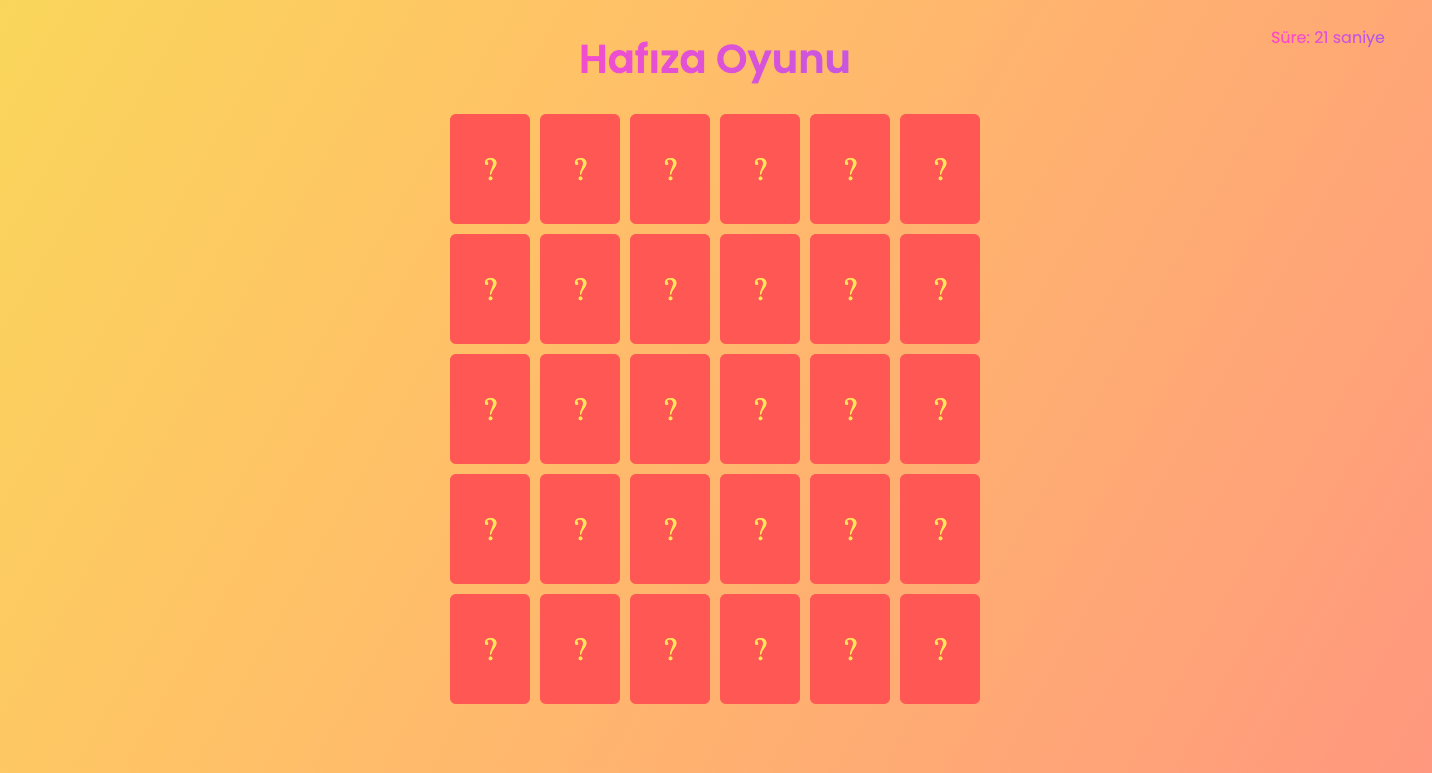
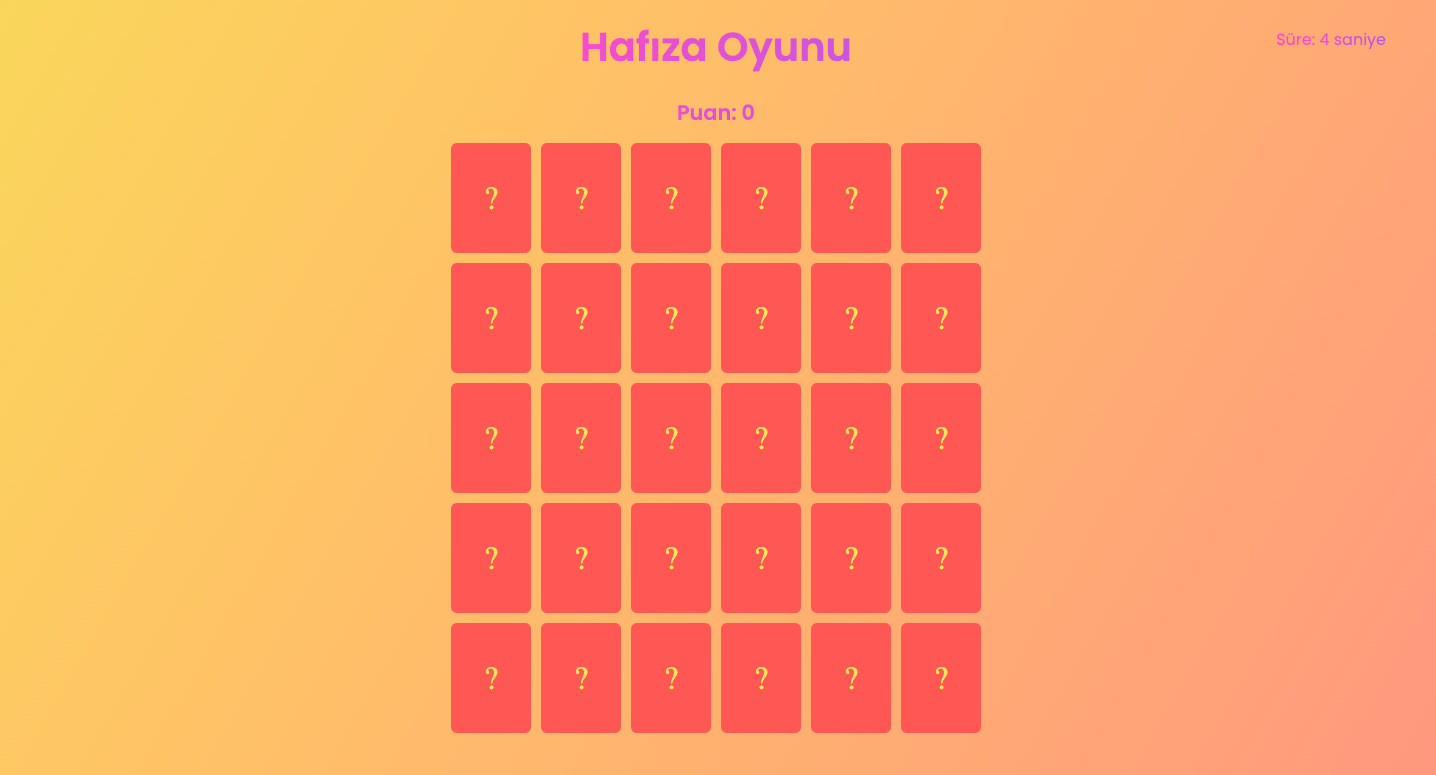
add score feature and update README

diff --git a/src/redux/gameSlice.js b/src/redux/gameSlice.js
@@ -22,6 +22,7 @@ const initialState = {
   gameCompleted: false,
   startTime: null,
   elapsedTime: 0,  // Oyun süresi (saniye)
+  score: 0,
 };
 
 const gameSlice = createSlice({
@@ -43,6 +44,7 @@ const gameSlice = createSlice({
       state.gameCompleted = false;
       state.startTime = Date.now();
       state.elapsedTime = 0;
+      state.score = 0;
     },
     flipCard(state, action) {
       const cardId = action.payload;
@@ -64,6 +66,7 @@ const gameSlice = createSlice({
             secondCard.complete = true;
             state.matchedCount += 1;
             state.openedCards = [];
+            state.score += 50;
 
             if (state.matchedCount === baseFrameworks.length) {
               state.gameCompleted = true;
@@ -84,6 +87,7 @@ const gameSlice = createSlice({
           if (firstCard.name !== secondCard.name) {
             firstCard.close = true;
             secondCard.close = true;
+            state.score -= 10;
           }
         }
         state.openedCards = [];

diff --git a/src/App.css b/src/App.css
@@ -5,11 +5,9 @@
   max-width: 600px;
 }
 
-.time {
+.time,
+.point {
   font-family: 'Poppins', sans-serif;
-  position: absolute;
-  right: 50px;
-  top: 30px;
   font-size: 1rem;
   background: linear-gradient(90deg, #ff6ec4, #7873f5, #4ade80);
   background-clip: text;
@@ -18,6 +16,20 @@
   -webkit-text-fill-color: transparent;
   animation: colorShift 6s ease infinite;
   background-size: 300% 300%;
+}
+
+.time {
+  position: absolute;
+  right: 50px;
+  top: 30px;
+}
+
+.point {
+  display: flex;
+  justify-content: center;
+  margin: 10px;
+  font-size: 1.3rem;
+  font-weight: 600;
 }
 
 .button {

diff --git a/src/App.jsx b/src/App.jsx
@@ -2,6 +2,7 @@ import React from 'react';
 import GameBoard from './Components/GameBoard.jsx';
 import Timer from './Components/Timer.jsx';
 import GameControls from './Components/GameControls.jsx';
+import ScoreBoard from './Components/ScoreBoard.jsx';
 
 export default function App() {
 
@@ -11,6 +12,7 @@ export default function App() {
 
         <h1 className='title'>Hafıza Oyunu</h1>
         <GameControls />
+        <ScoreBoard />
         <GameBoard />
         <Timer />
       </div>

diff --git a/src/Components/ScoreBoard.jsx b/src/Components/ScoreBoard.jsx
@@ -1,0 +1,13 @@
+import React from 'react';
+import { useSelector } from 'react-redux';
+import '../App.css'
+
+export default function ScoreBoard() {
+  const score = useSelector(state => state.game.score);
+
+  return (
+    <div className='point'>
+      Puan: {score}
+    </div>
+  );
+}

diff --git a/README.md b/README.md
@@ -12,6 +12,10 @@ Bu proje, JavaScript kütüphaneleri ve araçlarının logolarını içeren eğl
 
 - Oyun bittiğinde süre gösterilir.
 
+- Puanlama sistemi
+  - Doğru eşleşmede **+50 puan**
+  - Hatalı eşleşmede **–10 puan**
+
 - Responsive tasarım: mobil cihazlarda da oynanabilir.
 
 - Başlangıçta "Başla" butonu, oyun tamamlandığında "Tekrar Başla" butonu görünür.
@@ -39,6 +43,7 @@ src/
 │   ├── Card.jsx
 │   ├── GameBoard.jsx
 │   ├── GameControls.jsx
+│   ├── ScoreBoard.jsx
 │   ├── Timer.jsx
 ├── redux/
 │   ├── gameSlice.js
@@ -80,3 +85,4 @@ npm run dev
 
 ![Ekran Görüntüsü](./src/assets/StartScreen.png)
 ![Ekran Görüntüsü](./src/assets/CardScreen.png)
+![Ekran Görüntüsü](./src/assets/ScoreScreen.png)
